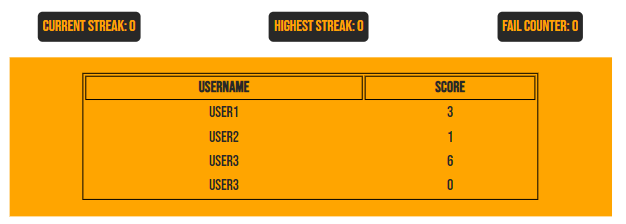
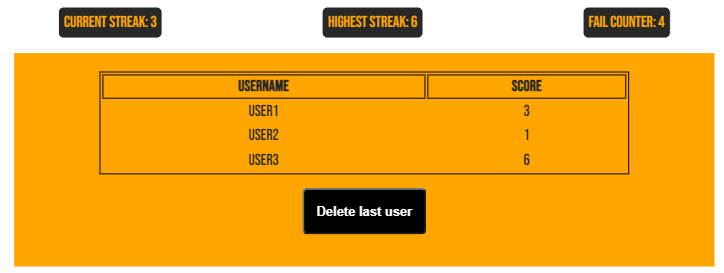
readme update for new delete button

Changed region(s): [[0.0, 0.0, 1.0, 1.0], [0.6981, 0.7812, 0.7284, 0.8438], [0.6981, 0.6875, 0.7284, 0.75]]

diff --git a/index.html b/index.html
@@ -107,7 +107,7 @@
             <tbody id="highscore">
             </tbody>
         </table>
-        <button onclick="deleteRow()" id="delete" class="btn-small hide">Delete last username</button>
+        <button onclick="deleteRow()" id="delete" class="btn-small hide">Delete last user</button>
     </div>
 
     <script src="assets/js/script.js"></script>

diff --git a/README.md b/README.md
@@ -102,13 +102,11 @@ Created with [rgbacolorpicker](https://rgbacolorpicker.com/)
 
 ## Scoreboard
 - The scoreboard will show as many usernames as the user will put in.
+- As soon as there are more than one user, a button "Delete last user" will appear and does what it describes.
 - The following picture still has USER3 as an active player, so all scores are still shown. <br>
-![scoreboard-new-user](readme-images/multiple_users_score.PNG) <br>
-<br>
+![scoreboard](readme-images/multiple_users.PNG) <br>
 - As soon as USER4 will be entered, it will reset all score keeping items and add a new user: <br>
-![scoreboard](readme-images/multiple_users.PNG)
-
-
+![scoreboard-new-user](readme-images/multiple_users_score.PNG) 
 
 [Back to top](<#contents>)
 
